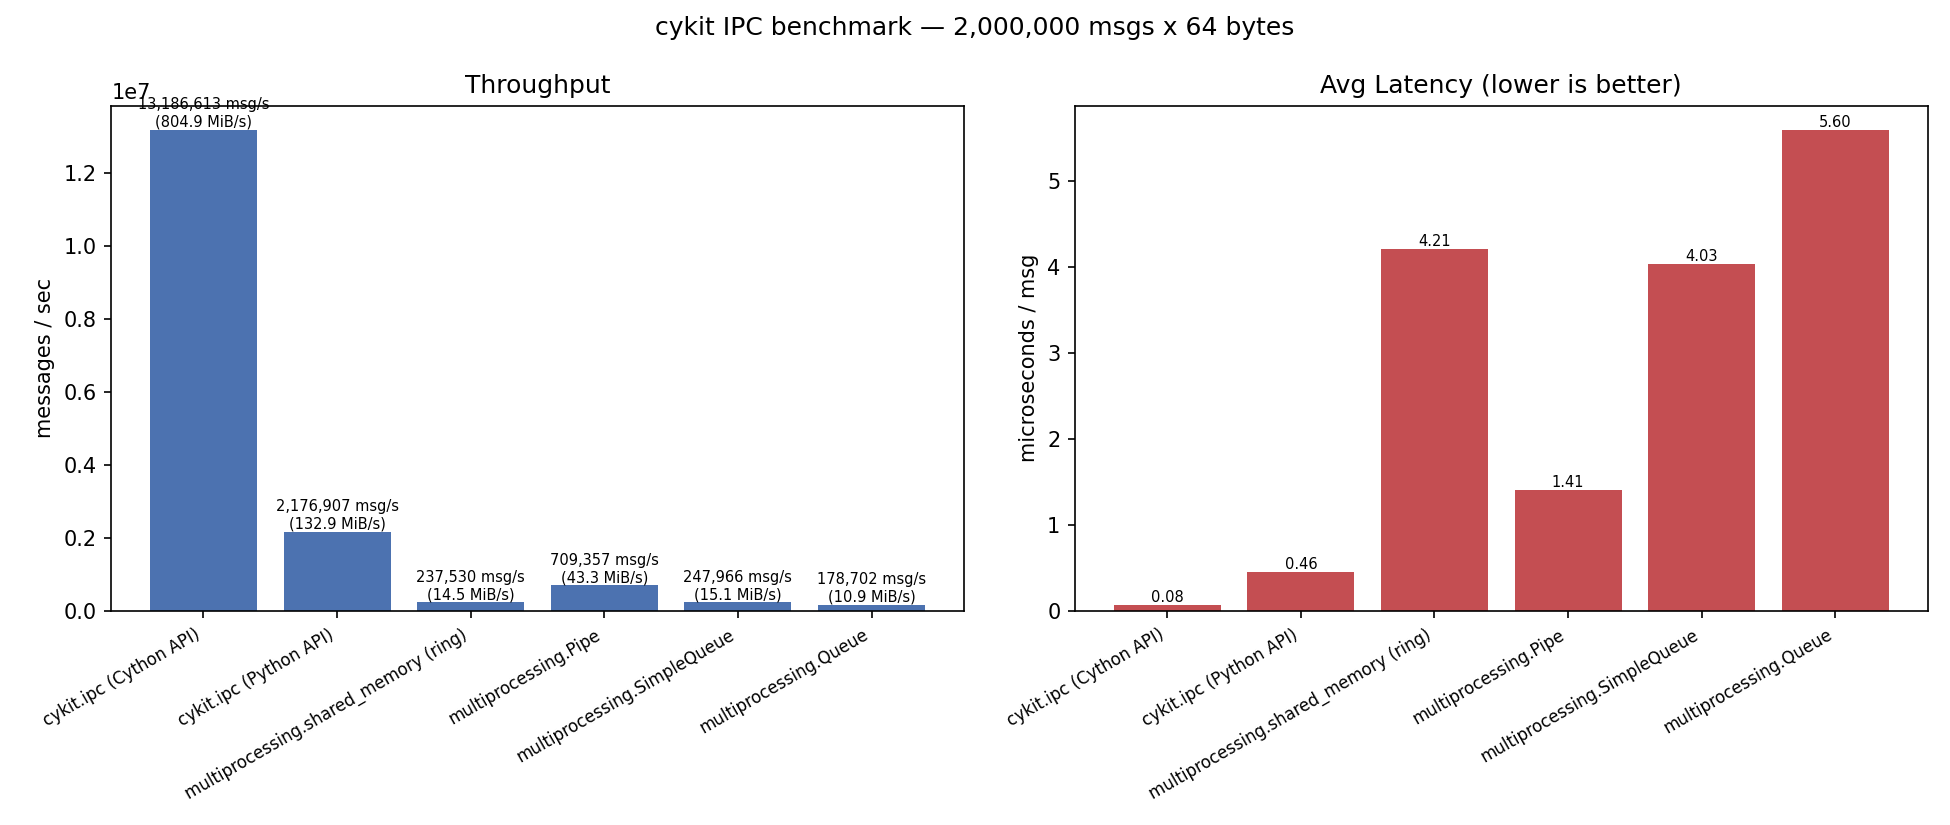
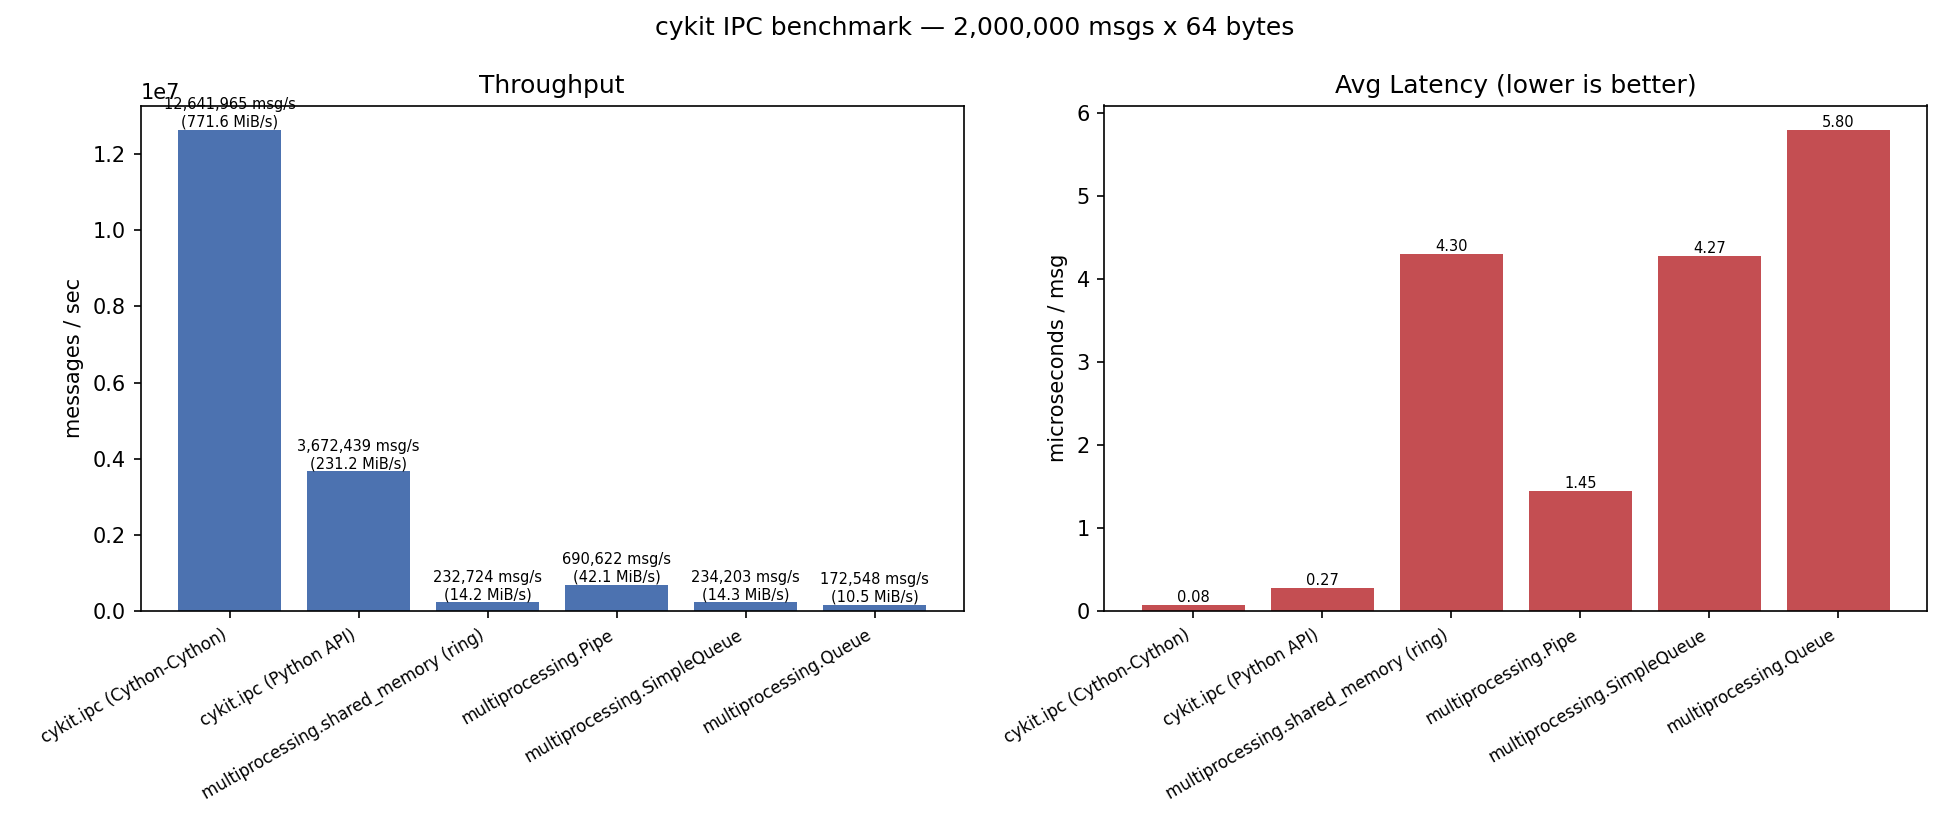
Update IPC benchmark results

diff --git a/README.md b/README.md
@@ -64,12 +64,12 @@ Benchmark configuration:
 <!-- BENCH:IPC:START -->
 | Implementation | msg/sec | MiB/sec | us/msg |
 |---------------|--------:|--------:|-------:|
-| **cykit.ipc (Cython API)** | 13,186,613 | 804.85 | 0.076 |
-| **cykit.ipc (Python API)** | 2,176,907 | 132.87 | 0.459 |
-| multiprocessing.Pipe | 709,357 | 43.30 | 1.410 |
-| multiprocessing.SimpleQueue | 247,966 | 15.13 | 4.033 |
-| multiprocessing.shared_memory (ring) | 237,530 | 14.50 | 4.210 |
-| multiprocessing.Queue | 178,702 | 10.91 | 5.596 |
+| **cykit.ipc (Cython-Cython)** | 12,641,965 | 771.60 | 0.079 |
+| **cykit.ipc (Python API)** | 3,672,439 | 231.15 | 0.272 |
+| multiprocessing.Pipe | 690,622 | 42.15 | 1.448 |
+| multiprocessing.SimpleQueue | 234,203 | 14.29 | 4.270 |
+| multiprocessing.shared_memory (ring) | 232,724 | 14.20 | 4.297 |
+| multiprocessing.Queue | 172,548 | 10.53 | 5.796 |
 <!-- BENCH:IPC:END -->
 
 ## [cykit.queue](https://github.com/Tapanhaz/cykit/tree/main/cykit/queue)
